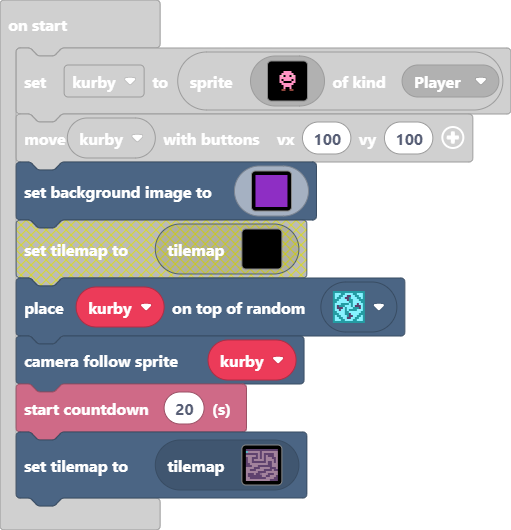
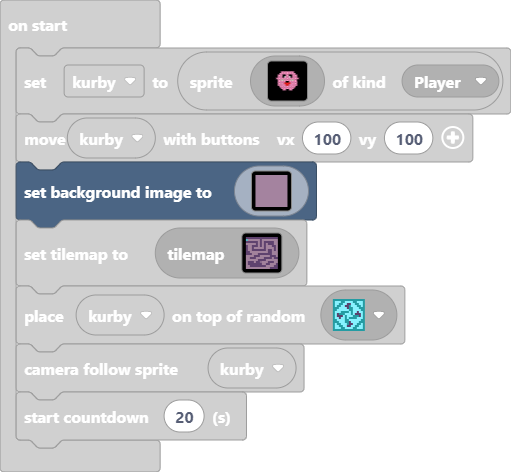
Update main.blocks, main.ts, images.g.jres, images.g.ts, tilemap.g.jres, tilemap.g.ts

diff --git a/tilemap.g.ts b/tilemap.g.ts
@@ -45,25 +45,6 @@ namespace myTiles {
 . . . . . . . . . . . . . . . . 
 . . . . . . . . . . . . . . . . 
 `, [myTiles.transparency16], TileScale.Sixteen);
-            case "level3":
-            case "level3":return tiles.createTilemap(hex`1000100001010101010101010101010101010101020404040404040104040404040404040101010101010401040101010101040404040404040104010401040101010404010404010101040104010404040101040104040104040404040104040404010401040401010101010101040101040104010104040404040404040401010404040101010404040101010101010104040404040404010101040404040401010104040401010104040404010101010401010404040404040101010104040404040404010101040101030404040101010404040101010101010104040101040404010404010101010101010104040404010104040404040404040404040401010101`, img`
-2 2 2 2 2 2 2 2 2 2 2 2 2 2 2 2 
-. . . . . . . 2 . . . . . . . . 
-2 2 2 2 2 2 . 2 . 2 2 2 2 2 . . 
-. . . . . 2 . 2 . 2 . 2 2 2 . . 
-2 . . 2 2 2 . 2 . 2 . . . 2 2 . 
-2 . . 2 . . . . . 2 . . . . 2 . 
-2 . . 2 2 2 2 2 2 2 . 2 2 . 2 . 
-2 2 . . . . . . . . . 2 2 . . . 
-2 2 2 . . . 2 2 2 2 2 2 2 . . . 
-. . . . 2 2 2 . . . . . 2 2 2 . 
-. . 2 2 2 . . . . 2 2 2 2 . 2 2 
-. . . . . . 2 2 2 2 . . . . . . 
-. 2 2 2 . 2 2 . . . . 2 2 2 . . 
-. 2 2 2 2 2 2 2 . . 2 2 . . . 2 
-. . 2 2 2 2 2 2 2 2 . . . . 2 2 
-. . . . . . . . . . . . 2 2 2 2 
-`, [myTiles.transparency16,sprites.dungeon.darkGroundCenter,sprites.dungeon.collectibleInsignia,sprites.dungeon.stairLarge,sprites.dungeon.floorDark0], TileScale.Sixteen);
             case "level4":
             case "level4":return tiles.createTilemap(hex`1000100000000000000000000000000000000000000000000000000000000000000000000000000000000000000000000000000000000000000000000000000000000000000000000000000000000000000000000000000000000000000000000000000000000000000000000000000000000000000000000000000000000000000000000000000000000000000000000000000000000000000000000000000000000000000000000000000000000000000000000000000000000000000000000000000000000000000000000000000000000000000000000000000000000000000000000000000000000000000000000000000000000000000000000000000000000000`, img`
 . . . . . . . . . . . . . . . . 
@@ -83,6 +64,25 @@ namespace myTiles {
 . . . . . . . . . . . . . . . . 
 . . . . . . . . . . . . . . . . 
 `, [myTiles.transparency16], TileScale.Sixteen);
+            case "level3":
+            case "level3":return tiles.createTilemap(hex`1000100001010101010101010101010101010101020404040404040104040404040404040101010101010401040101010101040404040404040104010401040101010404010404010101040104010404040101040104040104040404040104040404010401040401010101010101040101040104010104040404040404040401010404040101010404040101010101010104040404040404010101040404040401010104040401010104040404010101010401010404040404040101010104040404040404010101040101030404040101010404040101010101010104040101040404010404010101010101010104040404010104040404040404040404040401010101`, img`
+2 2 2 2 2 2 2 2 2 2 2 2 2 2 2 2 
+. . . . . . . 2 . . . . . . . . 
+2 2 2 2 2 2 . 2 . 2 2 2 2 2 . . 
+. . . . . 2 . 2 . 2 . 2 2 2 . . 
+2 . . 2 2 2 . 2 . 2 . . . 2 2 . 
+2 . . 2 . . . . . 2 . . . . 2 . 
+2 . . 2 2 2 2 2 2 2 . 2 2 . 2 . 
+2 2 . . . . . . . . . 2 2 . . . 
+2 2 2 . . . 2 2 2 2 2 2 2 . . . 
+. . . . 2 2 2 . . . . . 2 2 2 . 
+. . 2 2 2 . . . . 2 2 2 2 . 2 2 
+. . . . . . 2 2 2 2 . . . . . . 
+. 2 2 2 . 2 2 . . . . 2 2 2 . . 
+. 2 2 2 2 2 2 2 . . 2 2 . . . 2 
+. . 2 2 2 2 2 2 2 2 . . . . 2 2 
+. . . . . . . . . . . . 2 2 2 2 
+`, [myTiles.transparency16,sprites.dungeon.darkGroundCenter,sprites.dungeon.collectibleInsignia,sprites.dungeon.stairLarge,sprites.dungeon.floorDark0], TileScale.Sixteen);
         }
         return null;
     })

diff --git a/main.ts b/main.ts
@@ -4,22 +4,22 @@ scene.onOverlapTile(SpriteKind.Player, sprites.dungeon.stairLarge, function (spr
 let kurby = sprites.create(assets.image`kurby`, SpriteKind.Player)
 controller.moveSprite(kurby, 100, 100)
 scene.setBackgroundImage(img`
-    a a a a a a a a a a a a a a a a 
-    a a a a a a a a a a a a a a a a 
-    a a a a a a a a a a a a a a a a 
-    a a a a a a a a a a a a a a a a 
-    a a a a a a a a a a a a a a a a 
-    a a a a a a a a a a a a a a a a 
-    a a a a a a a a a a a a a a a a 
-    a a a a a a a a a a a a a a a a 
-    a a a a a a a a a a a a a a a a 
-    a a a a a a a a a a a a a a a a 
-    a a a a a a a a a a a a a a a a 
-    a a a a a a a a a a a a a a a a 
-    a a a a a a a a a a a a a a a a 
-    a a a a a a a a a a a a a a a a 
-    a a a a a a a a a a a a a a a a 
-    a a a a a a a a a a a a a a a a 
+    b b b b b b b b b b b b b b b b 
+    b b b b b b b b b b b b b b b b 
+    b b b b b b b b b b b b b b b b 
+    b b b b b b b b b b b b b b b b 
+    b b b b b b b b b b b b b b b b 
+    b b b b b b b b b b b b b b b b 
+    b b b b b b b b b b b b b b b b 
+    b b b b b b b b b b b b b b b b 
+    b b b b b b b b b b b b b b b b 
+    b b b b b b b b b b b b b b b b 
+    b b b b b b b b b b b b b b b b 
+    b b b b b b b b b b b b b b b b 
+    b b b b b b b b b b b b b b b b 
+    b b b b b b b b b b b b b b b b 
+    b b b b b b b b b b b b b b b b 
+    b b b b b b b b b b b b b b b b 
     `)
 tiles.setCurrentTilemap(tilemap`level3`)
 tiles.placeOnRandomTile(kurby, sprites.dungeon.collectibleInsignia)

diff --git a/images.g.ts b/images.g.ts
@@ -5,22 +5,26 @@ namespace myImages {
         switch(helpers.stringTrim(name)) {
             case "image1":
             case "kurby":return img`
-. . . . . . . . . . . . . . . . 
-. . . . . . . . . . . . . . . . 
-. . . . . . . . . . . . . . . . 
-. . . . . . 3 3 3 3 . . . . . . 
-. . . . . 3 3 3 3 3 3 . . . . . 
-. . . . 3 d f 3 3 f d 3 . . . . 
-. . . . 3 3 3 3 3 3 3 3 . . . . 
-. . . . 3 f 3 3 3 3 f 3 . . . . 
-. . . . 3 3 f f f f 3 3 . . . . 
-. . . . . 3 3 3 3 3 3 . . . . . 
-. . . . . . 3 3 3 3 . . . . . . 
-. . . . . . 3 . . 3 . . . . . . 
-. . . . . e e . . e e . . . . . 
-. . . . . . . . . . . . . . . . 
-. . . . . . . . . . . . . . . . 
-. . . . . . . . . . . . . . . . 
+....................
+....................
+.........ff.........
+........ffff........
+......33333333......
+.....3333333333.....
+....333ff33ff333....
+....333f1331f333....
+...33333333333333...
+...f33dd3333dd33f...
+....33333ff33333....
+....333322223333....
+....333332233333....
+.....3333333333.....
+......33333333......
+.......33..33.......
+.......ff..ff.......
+....................
+....................
+....................
 `;
         }
         return null;
